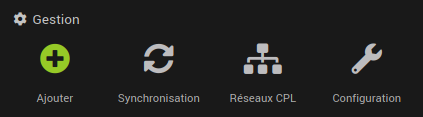
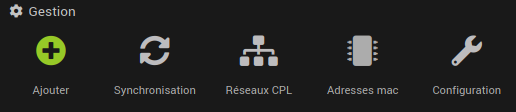
nouvelle version de devolo_cpl

diff --git a/fr_FR/devolo_cpl/index.md b/fr_FR/devolo_cpl/index.md
@@ -233,7 +233,7 @@ Un click sur l'icône `Réseaux CPL` ouvre un modal de présentation des débits
 ## Les réseaux
 {: .num}
 
-Si vous avez configuré différents noms de réseauix dans le paramétrage des
+Si vous avez configuré différents noms de réseaux dans le paramétrage des
 équipements, le modal contiendra un tab pour chacun de ces réseaux. Ceci permet,
 par exemple, d' avoir un tableau pour les débits entre des équipements DLan et
 un autre pour les équipements Magic.
@@ -250,6 +250,59 @@ Dans l'image ci-dessus, nous avons donc un flux 833 Mbps de *cplphil* verss
 Les débits sont relevés toutes les 5 minutes. L'heure affichée en bas à droites
 du modal indique l'heure à laquelle les débits affichés ont été relevés.
 
+# Les connections WiFi
+{: .num}
+
+Les adresses mac des client Wifi connectés aux point d'accès des équipement Devolo sont
+remontées dans le plugin Jeedom qui conserve un historique de ces connections.
+
+## Les adresses mac aléatoires
+{: .num}
+
+> :bulb: Une adresse mac dont le deuxième caractère est `2`, `6`, `A` ou `E` est une adresse aléatoire.
+
+Certains appareils utilisent une adresse mac aléatoire plutôt que leur adresse mac
+physique. Vu que l'adresse mac aléatoire change lors de chaque connection, il est
+impossible d'avoir un historique des connections de ces appareils. **Ces adresses sont
+donc ignorées par le plugin qui n'enregistre aucune donnée les concernant.**
+
+Certains de ces appareils peuvent être configurés pour utiliser une adresse fixe
+lorsqu'ils se connectent à certains réseaux WiFi. Il vous est donc possible de faire
+en sorte que ces appareils utilisent toujours la même adresse mac lorsqu'ils se
+connectent à un de vos pointis d'accès Devolo tout en conservant les avantages de
+l'utilisation d'une adresse mac aléatoire lorsque vous vous connectez à d'autres
+réseaux.
+
+Cette [page](https://support.plume.com/hc/fr/articles/360052070714-Comment-d%C3%A9sactiver-les-adresses-MAC-al%C3%A9atoires-sur-Android-10-)
+exlique comment configurer un Android pour qu'il utilise son adresse fixe lorsqu'il
+ce connecte sur votre réseau.
+
+## Recherche du vendeur pour une adresse MAC
+{: .num}
+
+Le site [macvendors.com](https://macvendors.com) permet de trouver quel est le fabriquant
+d'un appareil ou de son interface réseau à partir de l'adresse mac.
+
+Le plugin accède à l'API de ce site pour trouver le fabricant des appareils qui se sont
+connectés aux interfaces Wifi des équipement Devolo.
+
+L'accès à l'API se fait en respectant un délai minimum d'une seconde entre deux appels pour
+respecter la limite de deux accès secondes pour les accès libres. Par contre, le plugin ne vérifie pas le nombre d'accès durant une journée pour s'assurer que que limite de 1000
+accès par jour est respectée.
+
+## Association de noms aux adresses mac
+{: .num}
+
+![Icone adress](/images/devolo_cpl/icones_gestion_plugin.png)
+
+Le bouton `Adresses mac` de la page de gestion du plugin ouvre un modal pour
+gestion des adresses mac des équipements qui se sont connectés au réseaux Wifi.
+
+![Config MAC](/images/devolo_cpl/config_mac.png)
+
+Les noms associés ici aux adresses mac seront utilisés en lieu et place des adresse mac
+les graphiques.i9
+
 # Le panel
 {: .num}
 
@@ -257,8 +310,9 @@ Le panel est accessible via le menu **Accueil**
 
 ![Menu accueil](/images/devolo_cpl/menu_accueil.png)
 
-Le panel ne contient qu'un seul *tab* nommé `Débits CPL` (d'autres *tabs*
-viendront plus tard)
+Le panel ne contient deux *tabs*:
+* Un nommé `Débits CPL` pour l'historique des débits entre les équipements CPL
+* Un nommé `WiFi` pour l'historique des connections de clients Wifi
 
 ## Débit CPL
 {: .num}
@@ -275,4 +329,14 @@ Il est possible:
 
 Je vous laiss découvrir les autres fonctionalités du graphique.
 
+## Les connections WiFi
+{: .num}
+
+Ce tab permet de visualiser l'historique des connections WiFi à un point d'accès (AP):
+
+![panel WiFi AP](/images/devolo_cpl/panel_wifi_AP.png)
+
+Ce tab permet également de visualiser l'historique des connections WiFi d'une équipement Wifi (client):
+
+![panel WiFi client](/images/devolo_cpl/panel_wifi_client.png)
 

diff --git a/fr_FR/devolo_cpl/changelog.md b/fr_FR/devolo_cpl/changelog.md
@@ -5,6 +5,14 @@ title : devolo_cpl
 
 # Release notes
 
+### 2023/03/03 beta
++ Nouveau pluginlevel: 8.
+  + Création d'une table `devolo_connection` pour enregistrer l'historique des
+    connections Wifi.
+  + Création d'une table `devolo_macinfo` pour les configurations des adresses mac.
++ Enregistrement de l'historique des connections de clients Wifi
++ Nouveau tab dans le panel pour les graphiques des historiques de connections WiFi.
+  
 ### 2023/03/09 beta
 + Nouveau pluginlevel: 7.
   + Activation du panel
